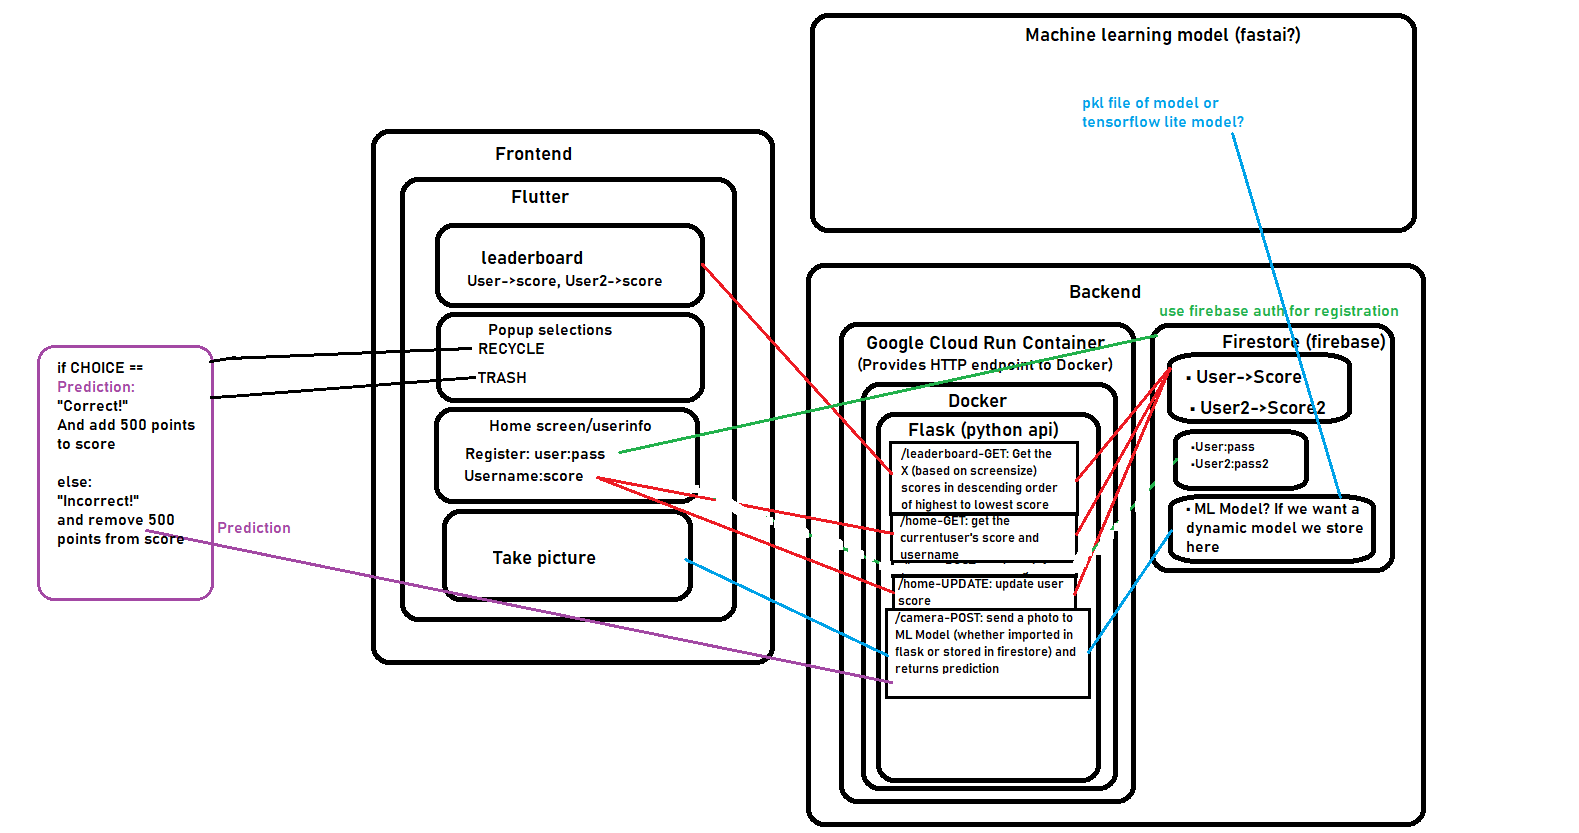
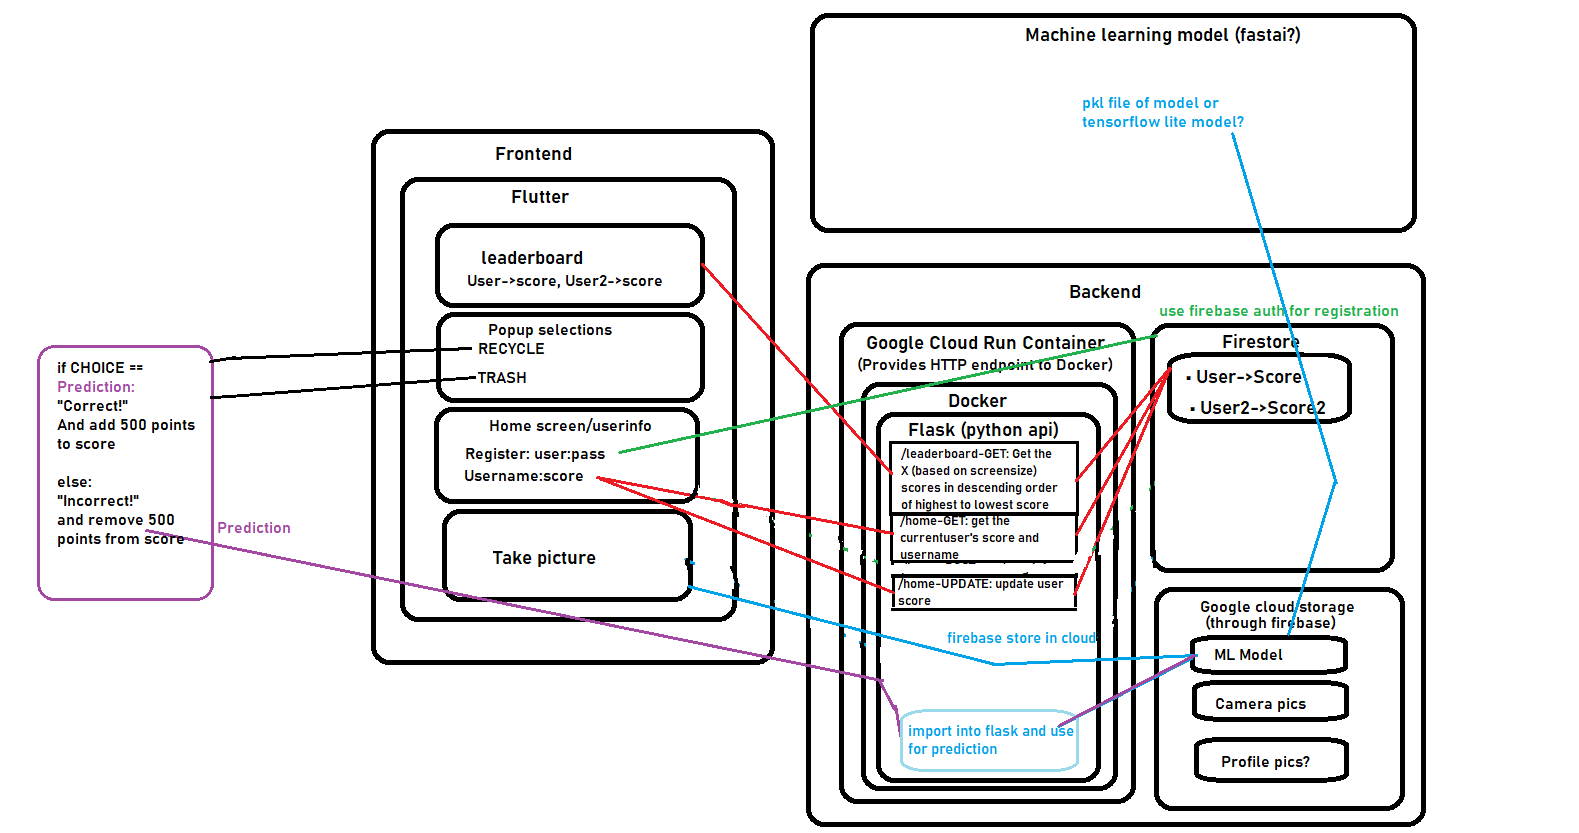
fix frameworkplan and update docker image/flask api

Changed region(s): [[0.5275, 0.4994, 0.8999, 0.9988], [0.4345, 0.6867, 0.5275, 0.7491], [0.8068, 0.4058, 0.8689, 0.437]]

diff --git a/app/app.py b/app/app.py
@@ -1,11 +1,75 @@
 import os
 from flask import Flask, request, jsonify
+from fastai.basic_train import load_learner
+from fastai.vision import open_image
 from firebase_admin import credentials, firestore, initialize_app
 
 app = Flask(__name__)
 cred = credentials.Certificate('garbify_key.json')
 default_app = initialize_app(cred)
 db = firestore.client()
+scores_ref = db.collection('scores')
+# I think we should just import the fastai pkl file here and do it within the method.
+# we can always get the image that we want to predict on from Firebase cloud storage
+
+learn = load_learner(path='./models', file='garb_trained.pkl')
+
+classes = learn.data.classes
 
 
+def predict_single(img_file):
+    prediction = learn.predict(open_image(img_file))
+    probs_list = prediction[2].numpy()
+    return {
+        'category': classes[prediction[1].item()],
+        'probs': {c: round(float(probs_list[i]), 5) for (i, c) in enumerate(classes)}
+    }
 
+### modify the code above to fit only result 2 options TRASH or RECYCLE
+
+@app.route('/home',methods=["POST"])
+def create_user_score():
+    try:
+        # json needs to have {'id': username 'score': 0}
+        uid =request.json['id']
+        scores_ref.document(uid).set(request.json)
+        return jsonify({"success": True}), 200
+    except Exception as e:
+        return f"Exception occured at: {e}"
+@app.route('/home',methods=["POST", "PUT"])
+def update_user_score():
+    try:
+        uid = request.json['id']
+        scores_ref.document(uid).update(request.json)
+        return jsonify({"success": True}), 200
+    except Exception as e:
+        return f"Exception occured at: {e}"
+@app.route('/home',methods=["GET"])
+def get_user_score():
+    try:
+        uid = request.json['id']
+        user_prof = scores_ref.document(uid).get()
+        return jsonify(user_prof.to_dict()), 200
+    except Exception as e:
+        return f"Exception occured at: {e}"
+
+@app.route('/leaderboard',methods=['GET'])
+def get_leaderboard():
+    try:
+        all_users = [user.to_dict() for user in scores_ref.stream()]
+        return jsonify(all_users), 200
+    except Exception as e:
+        return f"Exception occured at: {e}"
+
+@app.route('/camera',methods=['POST'])
+def predict():
+    # not the actual code need to figure out how to serve the image
+    # that was taken and put into firebase/cloud storage?
+    # into flask
+    return jsonify(predict_single(request.files['image'])
+        
+    
+
+#port = int(os.environ.get('PORT', 8080))
+#if __name__ == '__main__':
+#    app.run(threaded=True, host='0.0.0.0', port=port)
